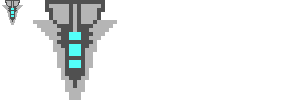
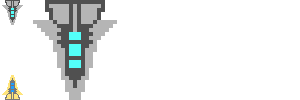
player ship and bullets in beta

Changed region(s): [[0.0, 0.75, 0.09, 1.0]]

diff --git a/beta/game.js b/beta/game.js
@@ -362,14 +362,14 @@
 
     var Gun = {
         init: function() {
-            this.setGun(0);
+            this.setGun(1);
         },
 
         setGun: function(id) {
             switch(id) {
                 case 0:
                     this.dmg = 1;
-                    this.r = 10;
+                    this.r = 5;
                     this.bulletCount = 2;
                     this.bulletSpread = 1;
                     this.fireRate = 5;
@@ -377,7 +377,7 @@
                     break;
                 case 1:
                     this.dmg = 1;
-                    this.r = 10;
+                    this.r = 5;
                     this.bulletCount = 3;
                     this.bulletSpread = 1;
                     this.fireRate = 5;
@@ -437,29 +437,23 @@
         init: function() {
             this.resetTimer = Gun.fireRate;
             this.x = 290;
-            this.y = 575;
+            this.y = 565;
             this.speed = 8;
             this.health = 4;
             this.shields = 4;
+            this.fcount = 0;
         },
 
         draw: function() {
             if(Game.gameOver) return;
             this.move();
 
-            ctx.beginPath();
-            ctx.moveTo(this.x + this.point1.x, this.y + this.point1.y);
-            ctx.lineTo(this.x + this.point2.x, this.y + this.point2.y);
-            ctx.lineTo(this.x + this.point3.x, this.y + this.point3.y);
-            ctx.closePath();
-            ctx.fillStyle = '#eee';
-            ctx.fill();
-
-            ctx.beginPath();
-            ctx.arc(this.x + this.point4.x,this.y + this.point4.y, 3, 0, 2 * Math.PI);
-            ctx.closePath();
-            ctx.fillStyle = 'orange';
-            ctx.fill();
+            ctx.drawImage(AssetLoader.ships, 0, 75, 25, 25, this.x - 12, this.y - 12, 25, 25);
+            ctx.drawImage(AssetLoader.effects, this.fcount, 65, 10, 15, this.x-5, this.y + 12, 10, 15);
+            if(Game.FrameCount %10 == 0) {
+                this.fcount += 10;
+                if(this.fcount == 30) this.fcount = 0;
+            }
         },
 
         move: function() {
@@ -525,7 +519,7 @@
                     bullet.x += bullet.xs;
                     bullet.y += bullet.ys;
             
-                    ctx.beginPath();
+                    /*ctx.beginPath();
                     ctx.arc(bullet.x, bullet.y, bullet.r, 0, 2 * Math.PI);
                     ctx.closePath();
 
@@ -537,7 +531,9 @@
                     ctx.closePath();
 
                     ctx.fillStyle = 'white';
-                    ctx.fill();
+                    ctx.fill();*/
+
+                    ctx.drawImage(AssetLoader.effects, 30,50,10,10,bullet.x-5, bullet.y-5, 10, 10);
 
                     if(bullet.y < -5) {
                         this.removeIndex(bullet.index);
